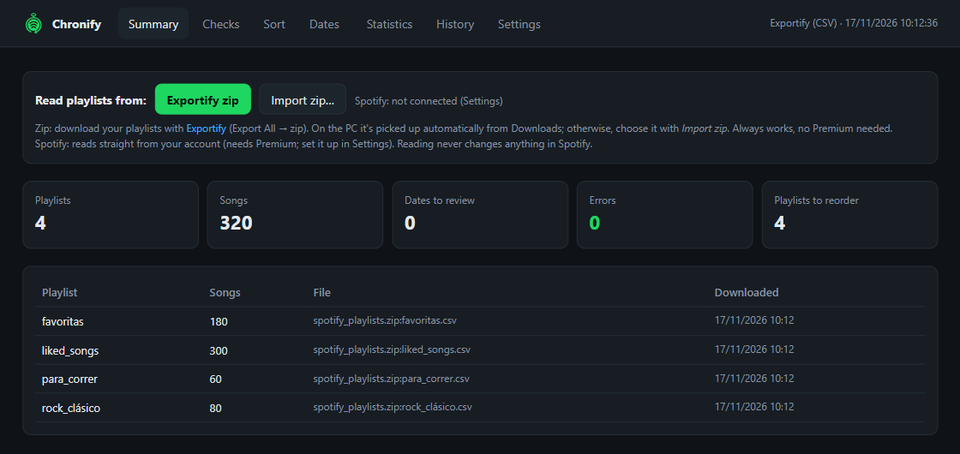
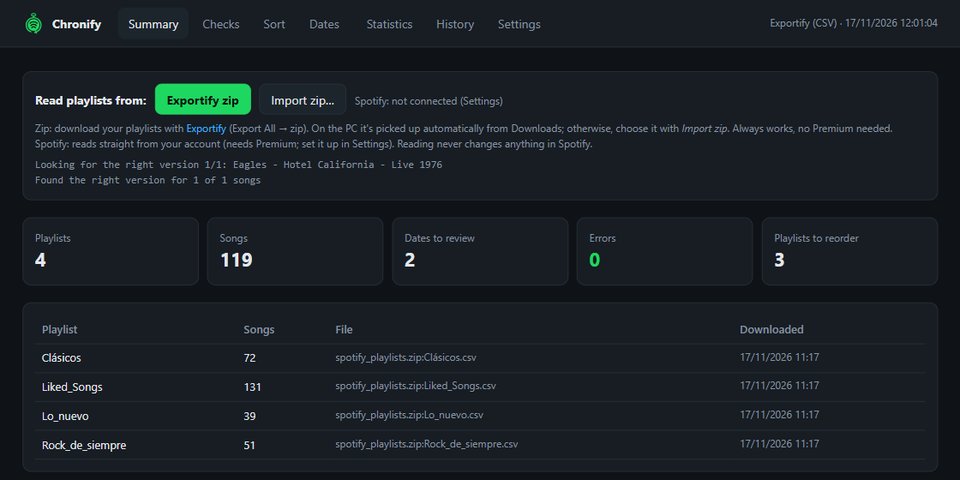
docs: capturas y GIF con listas de ejemplo de canciones conocidas (resumen, comprobaciones, ordenar, fechas, estadísticas y discos); fix: lectura y escritura de la caché a la vez en Windows

diff --git a/core/config.py b/core/config.py
@@ -1,6 +1,8 @@
 """Configuración: .env, rutas, reglas (rules.json) y fechas verificadas (fechas.json)."""
 import json
 import os
+import threading
+import time
 import unicodedata
 from pathlib import Path
 
@@ -86,14 +88,27 @@ def norm(nombre):
     return " ".join(s.replace("_", " ").casefold().split())
 
 
+def _reintentar(f, veces=20):
+    """En Windows, leer o sustituir un archivo justo mientras otro hilo lo sustituye da PermissionError un instante
+    (p. ej. la página leyendo la caché de MusicBrainz mientras la búsqueda en segundo plano la guarda)."""
+    for i in range(veces):
+        try:
+            return f()
+        except PermissionError:
+            if i == veces - 1:
+                raise
+            time.sleep(0.05)
+
+
 def _read_json(p, default):
-    return json.loads(p.read_text(encoding="utf-8")) if p.exists() else default
+    return _reintentar(lambda: json.loads(p.read_text(encoding="utf-8")) if p.exists() else default)
 
 
 def _write_json(p, data, indent=None):
-    tmp = p.with_suffix(p.suffix + ".tmp")
+    # temporal único por hilo: dos hilos guardando a la vez no se pisan el .tmp
+    tmp = p.with_suffix(f"{p.suffix}.{threading.get_ident()}.tmp")
     tmp.write_text(json.dumps(data, ensure_ascii=False, indent=indent), encoding="utf-8")
-    tmp.replace(p)  # escritura atómica: si se corta no deja el archivo a medias
+    _reintentar(lambda: tmp.replace(p))  # escritura atómica: si se corta no deja el archivo a medias
 
 
 def rules():

diff --git a/README.md b/README.md
@@ -45,14 +45,23 @@
 
 <p align="center">
   <img src="docs/screenshots/en_summary.png" width="32%" alt="Summary">
+  <img src="docs/screenshots/en_checks.png" width="32%" alt="Checks">
   <img src="docs/screenshots/en_sort.png" width="32%" alt="Sort">
-  <img src="docs/screenshots/en_stats.png" width="32%" alt="Statistics">
 </p>
+<p align="center">
+  <img src="docs/screenshots/en_dates.png" width="32%" alt="Dates">
+  <img src="docs/screenshots/en_stats.png" width="32%" alt="Statistics">
+  <img src="docs/screenshots/en_albums.png" width="32%" alt="Album statistics">
+</p>
+<p align="center"><sub>Screenshots made with sample playlists of well-known songs.</sub></p>
 
 <details>
-<summary><b>Statistics tour (GIF)</b></summary>
+<summary><b>Tour of the app (GIF)</b></summary>
 <br>
-<p align="center"><img src="docs/screenshots/en_stats_scroll.gif" width="80%" alt="Scrolling through the statistics"></p>
+<p align="center">
+  <img src="docs/screenshots/en_tour.gif" width="49%" alt="Tour of the app (GIF)">
+  <img src="docs/screenshots/en_stats_scroll.gif" width="49%" alt="Scrolling through the statistics">
+</p>
 </details>
 
 ### Features
@@ -218,14 +227,23 @@ released under the same licence, with its source code.
 
 <p align="center">
   <img src="docs/screenshots/es_summary.png" width="32%" alt="Resumen">
+  <img src="docs/screenshots/es_checks.png" width="32%" alt="Comprobaciones">
   <img src="docs/screenshots/es_sort.png" width="32%" alt="Ordenar">
-  <img src="docs/screenshots/es_stats.png" width="32%" alt="Estadísticas">
 </p>
+<p align="center">
+  <img src="docs/screenshots/es_dates.png" width="32%" alt="Fechas">
+  <img src="docs/screenshots/es_stats.png" width="32%" alt="Estadísticas">
+  <img src="docs/screenshots/es_albums.png" width="32%" alt="Estadísticas de discos">
+</p>
+<p align="center"><sub>Capturas hechas con listas de ejemplo de canciones conocidas.</sub></p>
 
 <details>
-<summary><b>Recorrido por las estadísticas (GIF)</b></summary>
+<summary><b>Recorrido por la app (GIF)</b></summary>
 <br>
-<p align="center"><img src="docs/screenshots/es_stats_scroll.gif" width="80%" alt="Recorrido por las estadísticas"></p>
+<p align="center">
+  <img src="docs/screenshots/es_tour.gif" width="49%" alt="Recorrido por la app (GIF)">
+  <img src="docs/screenshots/es_stats_scroll.gif" width="49%" alt="Recorrido por las estadísticas">
+</p>
 </details>
 
 ### Funciones
